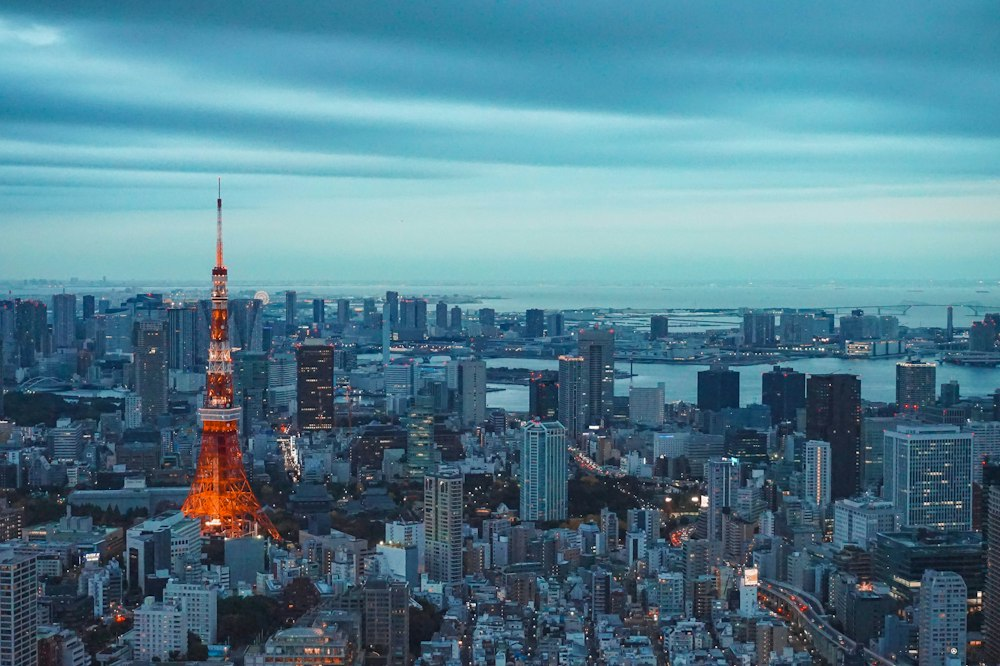
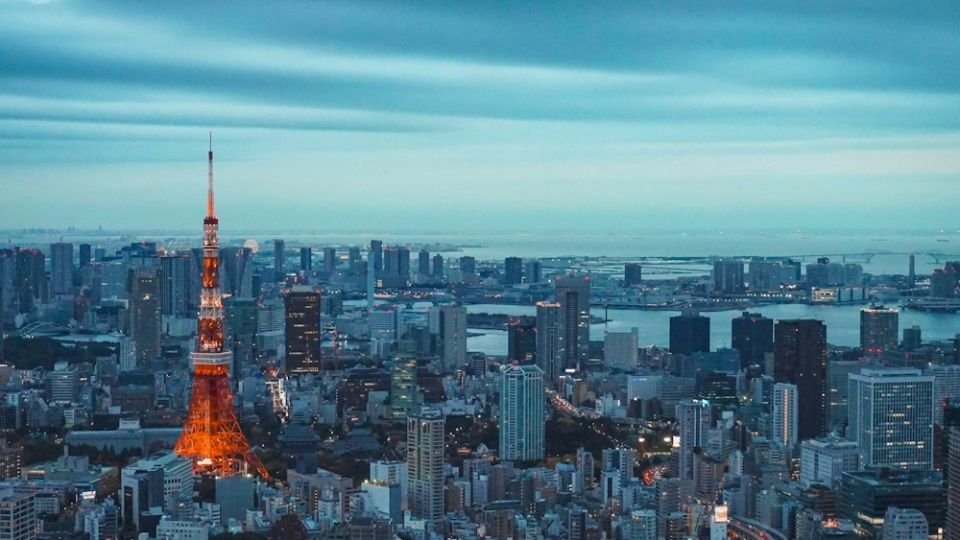
Uniform 16:9 cover photos (960x540) on every card and page

diff --git a/tests/Feature/Public/RealImagesTest.php b/tests/Feature/Public/RealImagesTest.php
@@ -24,6 +24,26 @@ class RealImagesTest extends TestCase
         }
     }
 
+    public function test_all_bundled_cover_photos_have_exactly_the_same_width_and_height(): void
+    {
+        foreach (array_merge(glob(public_path('images/destinations/*.jpg')), glob(public_path('images/cities/*.jpg'))) as $file) {
+            [$w, $h] = getimagesize($file);
+            $this->assertSame([960, 540], [$w, $h], basename($file));
+        }
+    }
+
+    public function test_cover_photos_are_displayed_in_one_shared_16_by_9_frame_everywhere(): void
+    {
+        $china = Country::firstOrCreate(['code' => 'CN'], ['name' => 'China', 'slug' => 'china', 'is_destination' => true, 'guidance_published' => true, 'featured' => true, 'summary' => 'x']);
+        University::create(['name' => 'Peking University', 'slug' => 'pku', 'csc_key' => 'A', 'province' => 'Beijing', 'country_id' => $china->id]);
+        foreach (['/', '/destinations', '/universities', '/universities/pku', '/destinations/china'] as $url) {
+            $html = $this->get($url)->assertOk()->getContent();
+            $this->assertStringNotContainsString('aspect-[16/', $html, $url);
+            $this->assertStringNotContainsString('aspect-[3/2]', $html, $url);
+            $this->assertStringContainsString('aspect-video', $html, $url);
+        }
+    }
+
     public function test_universities_show_a_photo_of_their_province_or_fall_back_to_china(): void
     {
         $china = Country::firstOrCreate(['code' => 'CN'], ['name' => 'China', 'slug' => 'china']);

diff --git a/resources/views/public/destinations/show.blade.php b/resources/views/public/destinations/show.blade.php
@@ -3,7 +3,7 @@
         <nav aria-label="Breadcrumb" class="text-sm text-muted"><a class="hover:underline" href="{{ route('home') }}">Home</a> / <a class="hover:underline" href="{{ route('destinations.index') }}">Study destinations</a> / <span aria-current="page">{{ $country->name }}</span></nav>
         <h1 class="mt-2 text-3xl font-extrabold sm:text-4xl">Study in {{ $country->name }}</h1>
         @if ($country->summary)<p class="mt-3 max-w-3xl text-lg text-muted">{{ $country->summary }}</p>@endif
-        <figure class="mt-4 max-w-3xl"><img src="{{ $country->imageUrl() }}" alt="" class="aspect-[16/6] w-full rounded-xl border border-line object-cover" width="800" height="300">
+        <figure class="mt-4 max-w-xl"><img src="{{ $country->imageUrl() }}" alt="" class="aspect-video w-full rounded-xl border border-line object-cover" width="960" height="540">
             @if ($credit = $country->imageCredit())<figcaption class="mt-1 text-xs text-muted">Photo: {{ $credit['name'] }}@if (! empty($credit['url'])) on Unsplash @endif. <a class="underline" href="{{ route('credits') }}">Image credits</a></figcaption>@endif</figure>
         <p class="mt-3 text-sm text-muted">
             @if ($country->guidance_reviewed_at) Last reviewed {{ $country->guidance_reviewed_at->format('j F Y') }}. @else Review date not recorded. @endif

diff --git a/resources/views/public/home.blade.php b/resources/views/public/home.blade.php
@@ -31,7 +31,7 @@
                 <figure class="relative mx-auto w-full max-w-lg"><img src="{{ $media($s->image_path) }}" alt="" class="w-full rounded-2xl object-cover" loading="eager"></figure>
             @else
                 <figure class="relative mx-auto w-full max-w-lg">
-                    <img src="{{ asset('images/hero-graduates.jpg') }}" alt="Graduates in caps and gowns throwing their caps into the air at sunset" class="aspect-[4/3] w-full rounded-2xl object-cover shadow-md" width="800" height="600" fetchpriority="high">
+                    <img src="{{ asset('images/hero-graduates.jpg') }}" alt="Graduates in caps and gowns throwing their caps into the air at sunset" class="aspect-video w-full rounded-2xl object-cover shadow-md" width="960" height="540" fetchpriority="high">
                     <figcaption class="mt-1 text-center text-xs text-muted">Photo: {{ config('sas.image_credits')['images/hero-graduates.jpg']['name'] }} on Unsplash. <a class="underline" href="{{ route('credits') }}">Image credits</a></figcaption>
                 </figure>
             @endif

diff --git a/resources/views/public/universities/index.blade.php b/resources/views/public/universities/index.blade.php
@@ -27,7 +27,7 @@
             <ul class="mt-4 grid gap-4 sm:grid-cols-2 lg:grid-cols-3">
                 @foreach ($universities as $u)
                     <li class="card flex flex-col overflow-hidden">
-                        <a href="{{ route('universities.show', $u) }}" tabindex="-1" aria-hidden="true"><img src="{{ $u->imageUrl() }}" alt="" class="aspect-[16/7] w-full object-cover" loading="lazy" width="600" height="262"></a>
+                        <a href="{{ route('universities.show', $u) }}" tabindex="-1" aria-hidden="true"><img src="{{ $u->imageUrl() }}" alt="" class="aspect-video w-full object-cover" loading="lazy" width="960" height="540"></a>
                         <div class="flex flex-1 flex-col p-5">
                             <h2 class="text-lg font-bold"><a class="hover:underline" href="{{ route('universities.show', $u) }}">{{ $u->name }}</a></h2>
                             @if ($u->name_zh)<p class="text-sm text-muted" lang="zh-Hans">{{ $u->name_zh }}</p>@endif

diff --git a/resources/views/components/destination-card.blade.php b/resources/views/components/destination-card.blade.php
@@ -1,7 +1,7 @@
 @props(['country', 'size' => 'md'])
 {{-- Light image card: picture on top, name and a short line below. No dark gradient. --}}
 <a href="{{ route('destinations.show', $country) }}" class="group card block h-full overflow-hidden transition hover:-translate-y-0.5 hover:border-navy-500 hover:shadow-md">
-    <img src="{{ $country->imageUrl() }}" alt="" class="{{ $size === 'sm' ? 'aspect-[3/2]' : 'aspect-[16/10]' }} w-full object-cover" loading="lazy" width="400" height="250">
+    <img src="{{ $country->imageUrl() }}" alt="" class="aspect-video w-full object-cover" loading="lazy" width="960" height="540">
     <span class="block p-4">
         <span class="block text-lg font-bold text-navy-900 group-hover:underline">{{ $country->name }} <span aria-hidden="true" class="text-gold">&rarr;</span></span>
         @if ($country->summary && $size !== 'sm')<span class="mt-1 block text-sm text-muted">{{ \Illuminate\Support\Str::limit($country->summary, 80) }}</span>@endif

diff --git a/resources/views/public/scholarships/show.blade.php b/resources/views/public/scholarships/show.blade.php
@@ -30,7 +30,7 @@
                 @if ($cycle->needsRecheck())<span class="badge-warn">Needs recheck</span>@endif
             </div>
             <h1 class="mt-3 text-3xl font-extrabold sm:text-4xl">{{ $programme->title }}</h1>
-            <img src="{{ $programme->imageUrl($cycle) }}" alt="" class="mt-4 aspect-[16/5] w-full max-w-3xl rounded-xl border border-line object-cover" width="800" height="250">
+            <img src="{{ $programme->imageUrl($cycle) }}" alt="" class="mt-4 aspect-video w-full max-w-xl rounded-xl border border-line object-cover" width="960" height="540">
             <p class="mt-1 text-lg text-muted">{{ $programme->funder?->name }} @if($cycle->destinations->isNotEmpty()) · {{ $cycle->destinations->pluck('name')->implode(', ') }} @endif</p>
             @if ($cycle->summary)<p class="mt-4 max-w-3xl">{{ $cycle->summary }}</p>@endif
         </div>

diff --git a/resources/views/public/universities/show.blade.php b/resources/views/public/universities/show.blade.php
@@ -18,7 +18,7 @@
                 @if ($university->summary)<div class="mt-4 whitespace-pre-line">{{ $university->summary }}</div>@endif
             </div>
             <figure>
-                <img src="{{ $university->imageUrl() }}" alt="" class="aspect-[16/10] w-full rounded-xl object-cover" loading="lazy" width="640" height="400">
+                <img src="{{ $university->imageUrl() }}" alt="" class="aspect-video w-full rounded-xl object-cover" loading="lazy" width="960" height="540">
                 @if ($credit = $university->imageCredit())<figcaption class="mt-1 text-xs text-muted">{{ $credit['subject'] }}: photo {{ $credit['name'] }}{{ ! empty($credit['url']) ? ' on Unsplash' : '' }}. <a class="underline" href="{{ route('credits') }}">Image credits</a></figcaption>@endif
             </figure>
         </div>

diff --git a/resources/views/components/cycle-card.blade.php b/resources/views/components/cycle-card.blade.php
@@ -5,7 +5,7 @@
     $institutions = $cycle->universities->isNotEmpty() ? $cycle->universities : $programme->universities;
 @endphp
 <article class="card flex h-full flex-col overflow-hidden transition hover:shadow-md">
-    <a href="{{ $url }}" tabindex="-1" aria-hidden="true"><img src="{{ $programme->imageUrl($cycle) }}" alt="" class="aspect-[16/7] w-full object-cover" loading="lazy" width="600" height="262"></a>
+    <a href="{{ $url }}" tabindex="-1" aria-hidden="true"><img src="{{ $programme->imageUrl($cycle) }}" alt="" class="aspect-video w-full object-cover" loading="lazy" width="960" height="540"></a>
     <div class="flex flex-1 flex-col p-5">
     <div class="flex flex-wrap items-center gap-2">
         @if ($cycle->sponsored)<span class="badge-warn">{{ $cycle->sponsored_label ?: 'Sponsored' }}</span>@endif

diff --git a/app/Filament/Support/MediaPicker.php b/app/Filament/Support/MediaPicker.php
@@ -21,7 +21,7 @@ class MediaPicker
                     ->image()->acceptedFileTypes(['image/png', 'image/jpeg', 'image/webp'])->maxSize(4096),
             ])
             ->createOptionUsing(fn (array $data) => MediaFile::register($data['file'])->path)
-            ->helperText('Pick from the media library, or use the + to upload. Manage all files under Website, Media library.');
+            ->helperText('Pick from the media library, or use the + to upload. Cover photos are shown in 16:9 and cropped to fit, so use a wide photo. Manage all files under Website, Media library.');
     }
 
     /** @return array<string, string> path => HTML label with a thumbnail */
